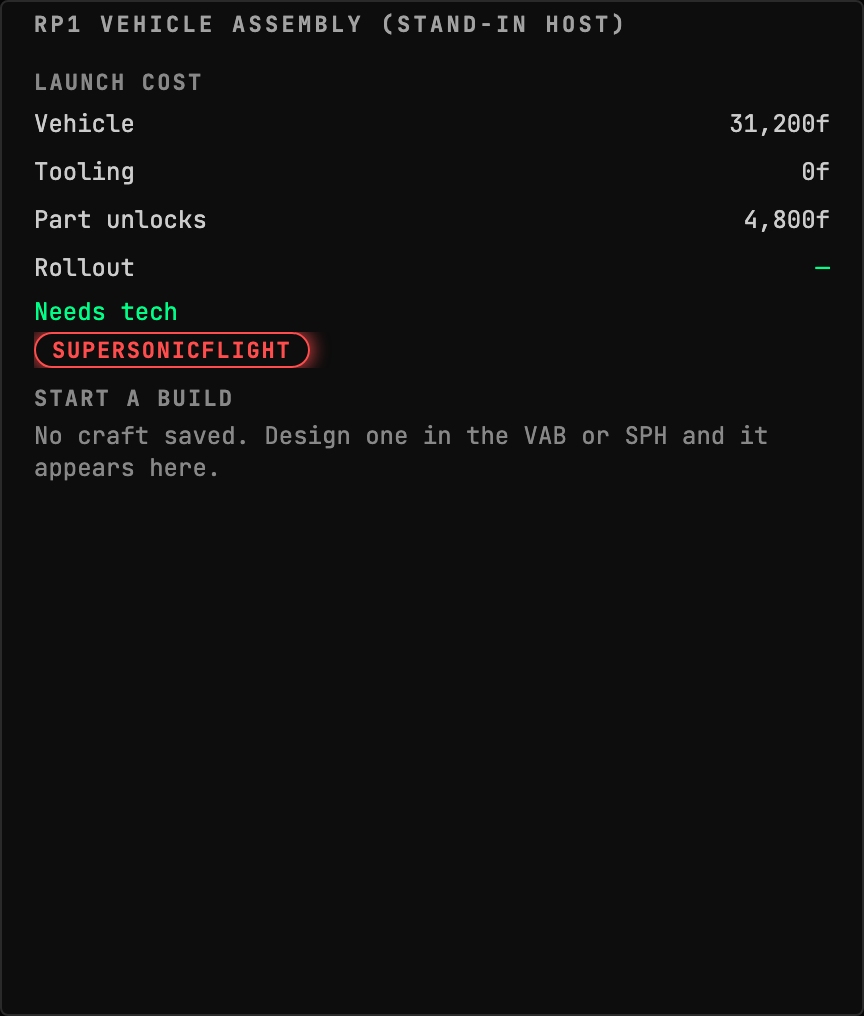
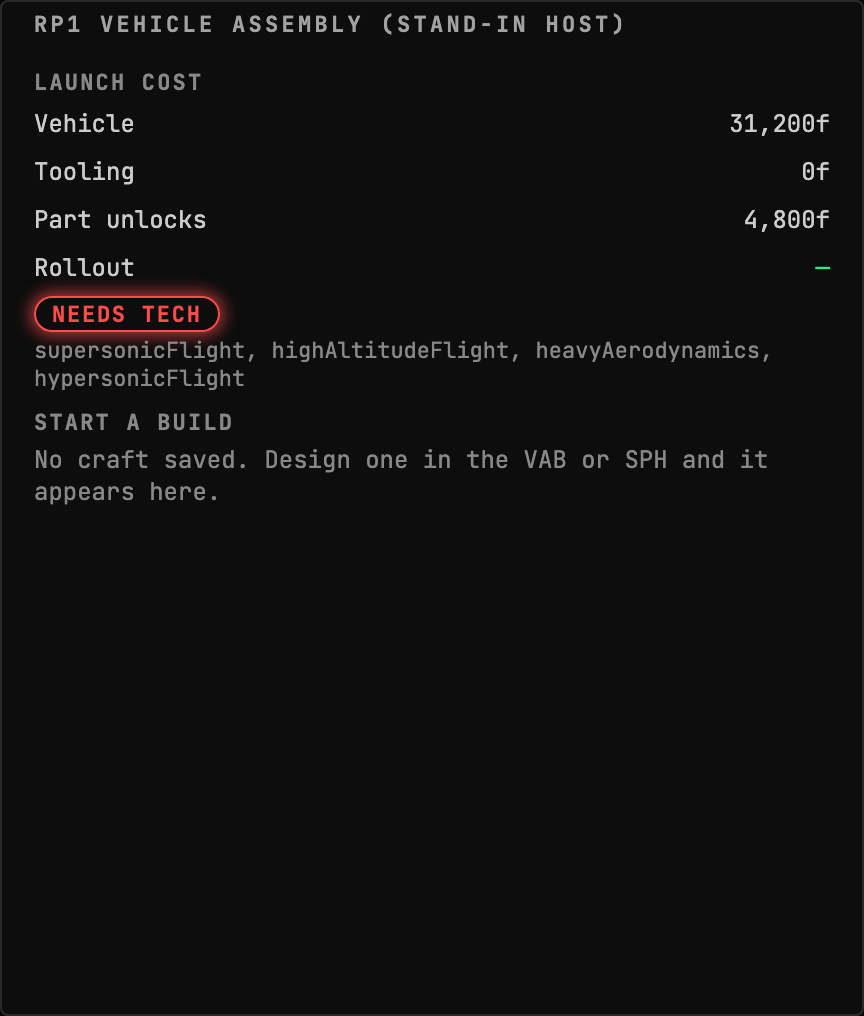
fix(rp1): say "needs tech" once, instead of once per node in red
Five missing tech nodes drew five critical badges. Severity is a reading
about the vehicle and the vehicle has ONE state here: it needs tech the
career has not researched. The fifth red badge says nothing the first said,
and spending the critical signal on decoration is what makes it stop
meaning "this cannot fly".

So one badge carries the state and the node ids are content beside it. Its
separate "Needs tech" label went with the change, because the badge is the
label now and the pair said it twice.

The ids move from badges to plain text, which also settles the truncation
this block was already carrying a fix for. A tech id is an identifier and
`supersonicFlight` cut by four pixels is a different id rather than a
shorter one; a badge cannot wrap out of that, because one wider than the row
has nowhere to wrap to, which is why there was a scroller. Text has
somewhere to go, so every id is whole at every size and nothing needs
scrolling to be read.

The fixture now carries FOUR nodes rather than one. One node could not show
the defect and so could not show the fix, and this block has a record of
render-only failures: both earlier fixes to it came from looking at a
picture rather than from a test.

The ids are still RP-1's raw node ids, which is all the wire carries. The
operator's other question, what a tech is needed FOR, cannot be answered
from `SpaceCenterManagement.EditorRequiredTechs`: it is a flat list of node
[…]

Changed region(s): [[0.0312, 0.2746, 0.9062, 0.4882], [0.625, 0.3356, 0.875, 0.3661]]

diff --git a/mod/GonogoRp1Uplink/client/src/VehicleAssembly/buildCost.test.tsx b/mod/GonogoRp1Uplink/client/src/VehicleAssembly/buildCost.test.tsx
@@ -171,4 +171,69 @@ describe("BuildCostSection: funds, and only funds", () => {
     expect(await screen.findByText("supersonicFlight")).toBeInTheDocument();
     expect(screen.getByText("Needs tech")).toBeInTheDocument();
   });
+
+  /**
+   * ONE badge, however many nodes are missing.
+   *
+   * <para>This drew a critical badge per tech id, so a vehicle missing five nodes
+   * got five red alarms. Severity is a reading about the VEHICLE and the vehicle
+   * has one state here: it needs tech the career has not researched. The fifth
+   * red badge says nothing the first did not, and using severity as decoration
+   * spends the one signal that is supposed to mean "this cannot fly".</para>
+   *
+   * <para>Asserted through the CONTIGUOUS comma-joined run of ids, which is the
+   * thing a per-tech badge list can never produce: five badges put five separate
+   * elements on the page with no separator between their texts. That is a fact
+   * about the structure rather than about the styling, so the test fails if the
+   * badges come back and not if the design system restyles a badge.</para>
+   */
+  it("draws one severity badge whatever the number of missing nodes", async () => {
+    const stream = mount();
+
+    emit(stream, {
+      ...PRICED,
+      requiredTechs: [
+        "supersonicFlight",
+        "highAltitudeFlight",
+        "heavyAerodynamics",
+        "hypersonicFlight",
+        "experimentalAerodynamics",
+      ],
+    });
+
+    const block = await screen
+      .findByText("Needs tech")
+      .then((el) => el.closest("[data-required-techs]"));
+    expect(block).not.toBeNull();
+    expect(block?.textContent).toContain(
+      "supersonicFlight, highAltitudeFlight, heavyAerodynamics, " +
+        "hypersonicFlight, experimentalAerodynamics",
+    );
+    // The state is said ONCE. Five nodes used to mean five critical badges.
+    expect(screen.getAllByText("Needs tech")).toHaveLength(1);
+  });
+
+  /**
+   * And every id whole, which is what the plain text buys over the badges it
+   * replaced.
+   *
+   * <para>A tech id is an identifier: `supersonicFlight` cut by four pixels is a
+   * different id rather than a shorter one, and that render defect is already on
+   * this block's record. A badge could not wrap out of it, because one wider than
+   * the row has nowhere to wrap to. Text can.</para>
+   */
+  it("carries every node id in full rather than one per badge", async () => {
+    const stream = mount();
+
+    emit(stream, {
+      ...PRICED,
+      requiredTechs: ["supersonicFlight", "highAltitudeFlight"],
+    });
+
+    await screen.findByText("Needs tech");
+    const block = stream.container.querySelector("[data-required-techs]");
+    expect(block?.textContent).toContain(
+      "supersonicFlight, highAltitudeFlight",
+    );
+  });
 });

diff --git a/mod/GonogoRp1Uplink/client/src/VehicleAssembly/BuildCost.tsx b/mod/GonogoRp1Uplink/client/src/VehicleAssembly/BuildCost.tsx
@@ -6,7 +6,6 @@ import {
   NULL_DISPLAY,
   Row,
   RowName,
-  ScrollArea,
   Section,
   SectionTitle,
   Stack,
@@ -146,21 +145,34 @@ function RequiredTechs({ techs }: { techs?: string[] }) {
        saying what they were. A list of badges is a sub-list rather than a value,
        and it cannot compete with its own label for the same line. */
     <Stack gap="xs" data-required-techs="">
-      <Text size="sm">Needs tech</Text>
-      {/* A SCROLLER, because a tech id is an identifier and a truncated one is a
-          different id rather than a shorter one. A render at the widget's minimum
-          size cut `supersonicFlight` by four pixels, which is the failure mode
-          that reads as a name and is not one. Wrapping cannot help: a single
-          badge wider than the row has nowhere to wrap to. */}
-      <ScrollArea>
-        <Cluster justify="start" gap="sm">
-          {techs.map((tech) => (
-            <Badge key={tech} severity="critical">
-              {tech}
-            </Badge>
-          ))}
-        </Cluster>
-      </ScrollArea>
+      {/* ONE badge, and it is the STATE rather than the contents.
+
+          This drew a critical badge per tech id, so a vehicle missing five nodes
+          got five red alarms whose redness said nothing the first one did not.
+          Severity is a reading about the vehicle and the vehicle has one state
+          here: it needs tech the career has not researched. The badge carries
+          that; the nodes are content, not severity.
+
+          Its own label went with the change. The badge IS the label now, and
+          "Needs tech" over a badge reading NEEDS TECH said it twice. */}
+      <Cluster justify="start" gap="sm">
+        <Badge severity="critical">Needs tech</Badge>
+      </Cluster>
+      {/* Plain text, which WRAPS, and that is a better answer to the truncation
+          this block was already carrying a fix for than the scroller it replaces.
+          A tech id is an identifier and a truncated one is a different id, so a
+          render at the widget's minimum size cutting `supersonicFlight` by four
+          pixels was a real defect; a badge could not wrap out of it because a
+          single badge wider than the row has nowhere to wrap to, hence the
+          scroller. Text has somewhere to go, so the ids are whole at every size
+          and nothing has to be scrolled to be read.
+
+          Still the raw node ids, and they are what the wire carries: RP-1 hands
+          over `SpaceCenterManagement.EditorRequiredTechs`, a flat list of node
+          ids with no titles and no link to the parts needing them. */}
+      <Text size="xs" tone="muted">
+        {techs.join(", ")}
+      </Text>
     </Stack>
   );
 }

diff --git a/mod/GonogoRp1Uplink/client/README.md b/mod/GonogoRp1Uplink/client/README.md
@@ -297,7 +297,7 @@ Every craft RP-1 is integrating, holding or could start, across every launch com
 
 ![Three queued nodes: one being worked with a countdown and its era window, one throttled down to a fifth of full rate, and one stalled with nothing to date it from](docs/assets/research-queue-throttled-and-stalled--default.png)
 
-![A fully tooled spaceplane: no rollout because it does not roll out, no surcharge row because there is no surcharge, and a tech it cannot fly without](docs/assets/build-cost-absences-and-tech-gate--default.png)
+![A fully tooled spaceplane: no rollout because it does not roll out, no surcharge row because there is no surcharge, and four tech nodes it cannot fly without under ONE severity badge](docs/assets/build-cost-absences-and-tech-gate--default.png)
 
 ![Three builds under integration: one with a date at a rushing complex, one stalled because nobody is assigned to its complex, and one RP-1 has not costed yet](docs/assets/building-three-clocks--default.png)
 
